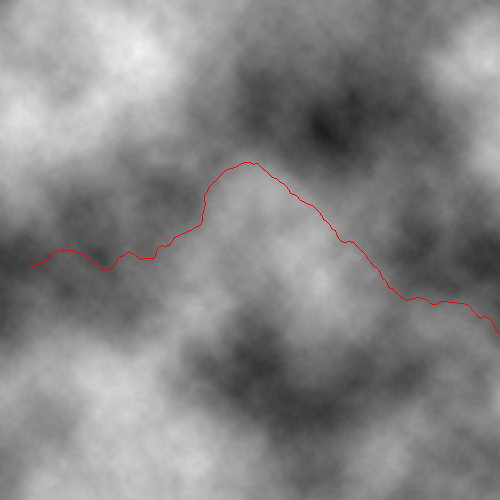
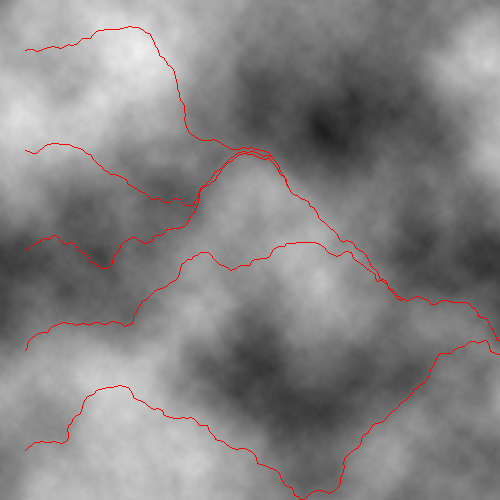
Updated sample output text and image.

diff --git a/README.md b/README.md
@@ -10,103 +10,104 @@ Example output:
 
 ![Example path over 2D Perlin Noise image](https://raw.github.com/alanmcintyre/erasmus/master/sample_output.png)
 
-    Generation 000/100: 0002654.073 (5.4 sec)
-    Generation 001/100: 0000832.138 (6.6 sec)
-    Generation 002/100: 0000832.138 (8.4 sec)
-    Generation 003/100: 0000832.138 (7.6 sec)
-    Generation 004/100: 0000832.138 (7.2 sec)
-    Generation 005/100: 0000819.144 (6.2 sec)
-    Generation 006/100: 0000747.137 (3.8 sec)
-    Generation 007/100: 0000731.890 (4.7 sec)
-    Generation 008/100: 0000721.657 (4.1 sec)
-    Generation 009/100: 0000721.657 (2.6 sec)
-    Generation 010/100: 0000656.896 (3.7 sec)
-    Generation 011/100: 0000656.896 (2.2 sec)
-    Generation 012/100: 0000622.151 (2.0 sec)
-    Generation 013/100: 0000622.151 (2.3 sec)
-    Generation 014/100: 0000622.151 (2.1 sec)
-    Generation 015/100: 0000603.155 (3.1 sec)
-    Generation 016/100: 0000603.155 (2.6 sec)
-    Generation 017/100: 0000603.155 (2.0 sec)
-    Generation 018/100: 0000603.155 (1.9 sec)
-    Generation 019/100: 0000603.155 (1.9 sec)
-    Generation 020/100: 0000603.155 (1.9 sec)
-    Generation 021/100: 0000603.155 (1.9 sec)
-    Generation 022/100: 0000603.155 (1.8 sec)
-    Generation 023/100: 0000603.155 (1.9 sec)
-    Generation 024/100: 0000603.155 (2.0 sec)
-    Generation 025/100: 0000603.155 (2.0 sec)
-    Generation 026/100: 0000603.155 (1.9 sec)
-    Generation 027/100: 0000603.155 (1.9 sec)
-    Generation 028/100: 0000603.155 (1.9 sec)
-    Generation 029/100: 0000603.155 (1.9 sec)
-    Generation 030/100: 0000603.155 (1.9 sec)
-    Generation 031/100: 0000593.404 (2.1 sec)
-    Generation 032/100: 0000593.404 (2.0 sec)
-    Generation 033/100: 0000593.404 (2.4 sec)
-    Generation 034/100: 0000593.404 (4.2 sec)
-    Generation 035/100: 0000593.404 (2.8 sec)
-    Generation 036/100: 0000593.404 (3.1 sec)
-    Generation 037/100: 0000593.404 (2.0 sec)
-    Generation 038/100: 0000593.404 (2.1 sec)
-    Generation 039/100: 0000593.404 (2.4 sec)
-    Generation 040/100: 0000593.404 (2.1 sec)
-    Generation 041/100: 0000593.404 (2.0 sec)
-    Generation 042/100: 0000593.404 (1.9 sec)
-    Generation 043/100: 0000593.404 (2.0 sec)
-    Generation 044/100: 0000593.404 (1.9 sec)
-    Generation 045/100: 0000593.404 (1.9 sec)
-    Generation 046/100: 0000593.404 (2.2 sec)
-    Generation 047/100: 0000593.404 (4.1 sec)
-    Generation 048/100: 0000593.404 (4.9 sec)
-    Generation 049/100: 0000593.404 (3.8 sec)
-    Generation 050/100: 0000590.158 (2.0 sec)
-    Generation 051/100: 0000590.158 (2.1 sec)
-    Generation 052/100: 0000590.158 (2.5 sec)
-    Generation 053/100: 0000590.158 (2.1 sec)
-    Generation 054/100: 0000590.158 (2.0 sec)
-    Generation 055/100: 0000590.158 (2.0 sec)
-    Generation 056/100: 0000590.158 (2.0 sec)
-    Generation 057/100: 0000590.158 (3.3 sec)
-    Generation 058/100: 0000590.158 (3.0 sec)
-    Generation 059/100: 0000590.158 (3.2 sec)
-    Generation 060/100: 0000590.158 (4.3 sec)
-    Generation 061/100: 0000590.158 (3.0 sec)
-    Generation 062/100: 0000590.158 (4.2 sec)
-    Generation 063/100: 0000590.158 (3.1 sec)
-    Generation 064/100: 0000590.158 (2.4 sec)
-    Generation 065/100: 0000590.158 (2.2 sec)
-    Generation 066/100: 0000590.158 (2.3 sec)
-    Generation 067/100: 0000590.158 (2.3 sec)
-    Generation 068/100: 0000590.158 (2.1 sec)
-    Generation 069/100: 0000590.158 (2.0 sec)
-    Generation 070/100: 0000590.158 (2.9 sec)
-    Generation 071/100: 0000590.158 (2.9 sec)
-    Generation 072/100: 0000590.158 (4.1 sec)
-    Generation 073/100: 0000590.158 (4.7 sec)
-    Generation 074/100: 0000590.158 (2.2 sec)
-    Generation 075/100: 0000590.158 (2.0 sec)
-    Generation 076/100: 0000590.158 (2.3 sec)
-    Generation 077/100: 0000590.158 (3.3 sec)
-    Generation 078/100: 0000590.158 (3.5 sec)
-    Generation 079/100: 0000590.158 (3.0 sec)
-    Generation 080/100: 0000590.158 (3.2 sec)
-    Generation 081/100: 0000590.158 (2.9 sec)
-    Generation 082/100: 0000590.158 (2.5 sec)
-    Generation 083/100: 0000590.158 (2.5 sec)
-    Generation 084/100: 0000590.158 (2.5 sec)
-    Generation 085/100: 0000590.158 (4.0 sec)
-    Generation 086/100: 0000590.158 (4.9 sec)
-    Generation 087/100: 0000590.158 (4.6 sec)
-    Generation 088/100: 0000590.158 (5.1 sec)
-    Generation 089/100: 0000590.158 (5.2 sec)
-    Generation 090/100: 0000590.158 (4.6 sec)
-    Generation 091/100: 0000590.158 (3.9 sec)
-    Generation 092/100: 0000590.158 (4.8 sec)
-    Generation 093/100: 0000590.158 (4.2 sec)
-    Generation 094/100: 0000590.158 (2.6 sec)
-    Generation 095/100: 0000590.158 (4.4 sec)
-    Generation 096/100: 0000590.158 (4.8 sec)
-    Generation 097/100: 0000590.158 (5.1 sec)
-    Generation 098/100: 0000590.158 (3.4 sec)
-    Generation 099/100: 0000590.158 (3.4 sec)
+    Generation 000/100: 0010986.798 (29.8 sec)
+    Generation 001/100: 0007016.289 (23.3 sec)
+    Generation 002/100: 0006665.136 (14.0 sec)
+    Generation 003/100: 0006594.379 (9.2 sec)
+    Generation 004/100: 0005371.972 (9.4 sec)
+    Generation 005/100: 0005371.972 (7.5 sec)
+    Generation 006/100: 0005371.972 (9.0 sec)
+    Generation 007/100: 0004082.218 (9.3 sec)
+    Generation 008/100: 0004082.218 (9.1 sec)
+    Generation 009/100: 0004082.218 (8.0 sec)
+    Generation 010/100: 0004082.218 (7.8 sec)
+    Generation 011/100: 0004082.218 (8.4 sec)
+    Generation 012/100: 0004082.218 (9.1 sec)
+    Generation 013/100: 0004082.218 (8.3 sec)
+    Generation 014/100: 0004082.218 (9.6 sec)
+    Generation 015/100: 0004082.218 (9.4 sec)
+    Generation 016/100: 0004082.218 (9.4 sec)
+    Generation 017/100: 0004082.218 (8.7 sec)
+    Generation 018/100: 0003826.051 (9.4 sec)
+    Generation 019/100: 0003826.051 (9.5 sec)
+    Generation 020/100: 0003826.051 (8.7 sec)
+    Generation 021/100: 0003826.051 (9.1 sec)
+    Generation 022/100: 0003826.051 (9.0 sec)
+    Generation 023/100: 0003826.051 (8.0 sec)
+    Generation 024/100: 0003826.051 (9.4 sec)
+    Generation 025/100: 0003826.051 (7.3 sec)
+    Generation 026/100: 0003826.051 (9.9 sec)
+    Generation 027/100: 0003826.051 (9.1 sec)
+    Generation 028/100: 0003826.051 (7.1 sec)
+    Generation 029/100: 0003826.051 (7.5 sec)
+    Generation 030/100: 0003826.051 (9.1 sec)
+    Generation 031/100: 0003826.051 (8.6 sec)
+    Generation 032/100: 0003826.051 (8.2 sec)
+    Generation 033/100: 0003755.311 (8.5 sec)
+    Generation 034/100: 0003755.311 (8.8 sec)
+    Generation 035/100: 0003755.311 (8.0 sec)
+    Generation 036/100: 0003755.311 (9.3 sec)
+    Generation 037/100: 0003755.311 (9.0 sec)
+    Generation 038/100: 0003755.311 (8.5 sec)
+    Generation 039/100: 0003755.311 (9.9 sec)
+    Generation 040/100: 0003755.311 (7.5 sec)
+    Generation 041/100: 0003755.311 (8.5 sec)
+    Generation 042/100: 0003755.311 (9.4 sec)
+    Generation 043/100: 0003755.311 (9.0 sec)
+    Generation 044/100: 0003755.311 (8.2 sec)
+    Generation 045/100: 0003755.311 (8.2 sec)
+    Generation 046/100: 0003755.311 (8.2 sec)
+    Generation 047/100: 0003755.311 (8.4 sec)
+    Generation 048/100: 0003755.311 (7.5 sec)
+    Generation 049/100: 0003755.311 (8.5 sec)
+    Generation 050/100: 0003755.311 (7.9 sec)
+    Generation 051/100: 0003755.311 (8.1 sec)
+    Generation 052/100: 0003755.311 (8.9 sec)
+    Generation 053/100: 0003755.311 (9.0 sec)
+    Generation 054/100: 0003755.311 (8.1 sec)
+    Generation 055/100: 0003755.311 (8.8 sec)
+    Generation 056/100: 0003755.311 (9.0 sec)
+    Generation 057/100: 0003755.311 (10.0 sec)
+    Generation 058/100: 0003755.311 (8.0 sec)
+    Generation 059/100: 0003755.311 (9.0 sec)
+    Generation 060/100: 0003755.311 (8.7 sec)
+    Generation 061/100: 0003755.311 (9.6 sec)
+    Generation 062/100: 0003755.311 (8.3 sec)
+    Generation 063/100: 0003755.311 (8.4 sec)
+    Generation 064/100: 0003755.311 (9.1 sec)
+    Generation 065/100: 0003755.311 (9.3 sec)
+    Generation 066/100: 0003755.311 (9.5 sec)
+    Generation 067/100: 0003755.311 (7.9 sec)
+    Generation 068/100: 0003755.311 (7.3 sec)
+    Generation 069/100: 0003755.311 (8.3 sec)
+    Generation 070/100: 0003755.311 (8.9 sec)
+    Generation 071/100: 0003755.311 (10.0 sec)
+    Generation 072/100: 0003755.311 (9.6 sec)
+    Generation 073/100: 0003755.311 (9.7 sec)
+    Generation 074/100: 0003755.311 (7.8 sec)
+    Generation 075/100: 0003755.311 (9.0 sec)
+    Generation 076/100: 0003755.311 (8.4 sec)
+    Generation 077/100: 0003755.311 (8.2 sec)
+    Generation 078/100: 0003755.311 (8.8 sec)
+    Generation 079/100: 0003755.311 (8.7 sec)
+    Generation 080/100: 0003755.311 (8.7 sec)
+    Generation 081/100: 0003755.311 (9.2 sec)
+    Generation 082/100: 0003755.311 (8.7 sec)
+    Generation 083/100: 0003755.311 (9.2 sec)
+    Generation 084/100: 0003755.311 (9.1 sec)
+    Generation 085/100: 0003755.311 (10.0 sec)
+    Generation 086/100: 0003755.311 (9.2 sec)
+    Generation 087/100: 0003755.311 (8.2 sec)
+    Generation 088/100: 0003755.311 (8.4 sec)
+    Generation 089/100: 0003755.311 (7.6 sec)
+    Generation 090/100: 0003755.311 (11.0 sec)
+    Generation 091/100: 0003755.311 (10.9 sec)
+    Generation 092/100: 0003755.311 (10.0 sec)
+    Generation 093/100: 0003755.311 (9.7 sec)
+    Generation 094/100: 0003755.311 (8.9 sec)
+    Generation 095/100: 0003755.311 (9.9 sec)
+    Generation 096/100: 0003755.311 (9.1 sec)
+    Generation 097/100: 0003755.311 (9.9 sec)
+    Generation 098/100: 0003755.311 (9.6 sec)
+    Generation 099/100: 0003755.311 (8.2 sec)
+
